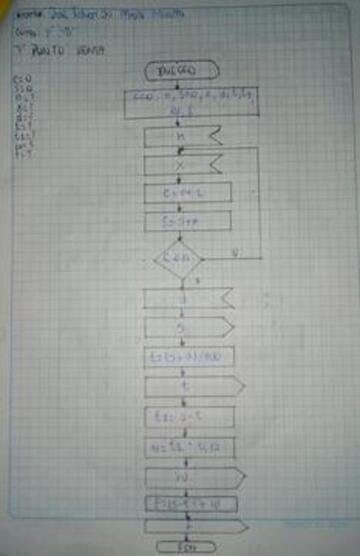
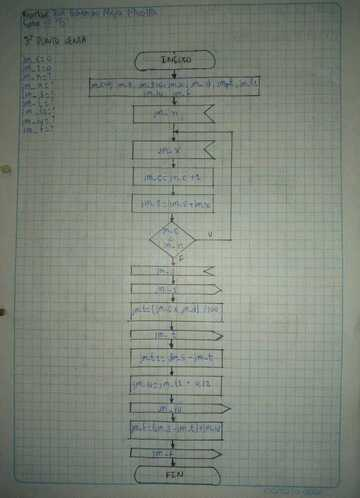
Segunda Versión, Punto Venta

diff --git a/MejiaJose/ACTIVIDAD-B2-C2/MejiaJose-PuntoVenta.cpp b/MejiaJose/ACTIVIDAD-B2-C2/MejiaJose-PuntoVenta.cpp
@@ -1,26 +1,46 @@
+//================================================
+
+//==> Nombre del programa: Punto de Venta
+
+//==> Archivo : MejiaJose-PuntoVenta.cpp
+//==>Autor: Jose Mejia
+//==>Fecha de elaboración: 2022-04-29
+//==>Fecha ultima actualización: 2022-05-13
+//=================================================
+
 #include <iostream>
 using namespace std;
 int main ()
 {
-	int c=0, n;
-	float s=0, x, d, t, t1, iv, f;
+	int jm_c=0, jm_n;
+	float jm_s=0, jm_x, jm_d, jm_t, jm_t1, jm_iv, jm_f;
 	cout<<"Ingrese la cantidad de productos que desea sumar"<<endl;
-	cin>>n;
+	cin>>jm_n;
 	do{
-		cout<<"Ingrese el valor de la compra "<<c+1<<endl;
-		cin>>x;
-		c=c+1;
-		s=s+x;
-	}while (c<n);
+		cout<<"Ingrese el valor de la compra "<<jm_c+1<<endl;
+		cin>>jm_x;
+		jm_c=jm_c+1;
+		jm_s=jm_s+jm_x;
+	}while (jm_c<jm_n);
 	cout<<"Ingrese el valor del descuento que desea realizar: "<<endl;
-	cin>>d;
-	cout<<"Valor bruto de compra: "<<s<<endl;
-	t=(s*d)/100;
-	cout<<"Valor del descuento: "<<t<<endl;
-	t1=s-t;
-	iv=t1*0.12;
-	cout<<"Valor del IVA: "<<iv<<endl;
-	f=(s-t)+iv;
-	cout<<"Valor final: "<<f<<endl;
+	cin>>jm_d;
+
+cout<<endl<<"//================================================"<<endl;
+cout<<"//==> Nombre del programa: Punto de Venta"<<endl;
+cout<<"//==> Archivo : MejiaJose-PuntoVenta.cpp"<<endl;
+cout<<"//==>Autor: Jose Mejia"<<endl;
+cout<<"//==>Fecha de elaboración: 2022-04-29"<<endl;
+cout<<"//==>Fecha ultima actualización: 2022-05-13"<<endl;
+cout<<"//================================================="<<endl;
+
+
+	cout<<"Valor bruto de compra: "<<jm_s<<endl;
+	jm_t=(jm_s*jm_d)/100;
+	cout<<"Valor del descuento: "<<jm_t<<endl;
+	jm_t1=jm_s-jm_t;
+	jm_iv=jm_t1*0.12;
+	cout<<"Valor del IVA: "<<jm_iv<<endl;
+	jm_f=(jm_s-jm_t)+jm_iv;
+	cout<<"Valor final: "<<jm_f<<endl;
 return 0;
 }
